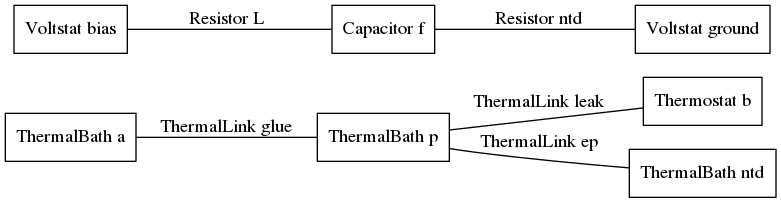
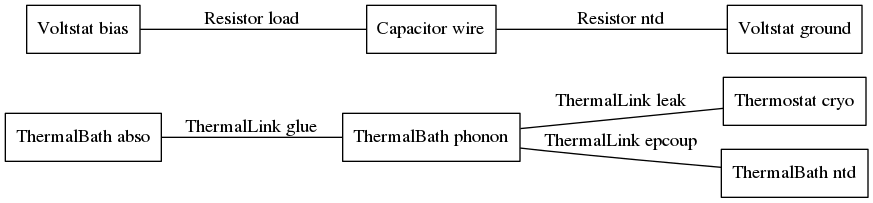
Each elements in now registered as an attribute of System.

diff --git a/ethem/system_scheme.py b/ethem/system_scheme.py
@@ -9,10 +9,9 @@ scheme of the electro-thermal system.
 import pydot
 import Image
 
-from .convenience import build_path
 from .et_scheme import System, Bath, Link
 
-def display_scheme(fp):
+def display_scheme(fp='scheme.png'):
     """ Create and display the symbolic scheme of the System.
 
     Parameters
@@ -47,25 +46,9 @@ def display_scheme(fp):
         edge_l.set_label(lab)
         graph.add_edge(edge_l)
 
-#    node_abs = pydot.Node('Dummy Absorber\nGe')
-#    node_waf = pydot.Node('Dummy Waffer')
-#    node_nbsi = pydot.Node('Dummy NbSi\nElectron Bath')
-#    node_cryo = pydot.Node('Dummy Cryostat')
-#
-#    graph.add_node(node_abs)
-#    graph.add_node(node_waf)
-#    graph.add_node(node_nbsi)
-#    graph.add_node(node_cryo)
-
-#    edgy = pydot.Edge(node_abs, node_waf)
-#    edgy.set_label('hello there, this is a dummy scheme.')
-#
-#    graph.add_edge(edgy)
-#    graph.add_edge(pydot.Edge(node_waf, node_cryo))
-#    graph.add_edge(pydot.Edge(node_waf, node_nbsi))
-
-    graph.write_png(fp)
-    image = Image.open(fp)
-    image.show()
-
-#%%
+    try:
+        graph.write_png(fp)
+        image = Image.open(fp)
+        image.show()
+    except IOError as err:
+        print 'Cannot display scheme. IOError: {}'.format(err)

diff --git a/ethem/test_ethem/config_ethem.py b/ethem/test_ethem/config_ethem.py
@@ -23,11 +23,11 @@ t, f = eth.System.t, eth.System.f
 
 ### Defining the thermal system
 ### cryostat
-cryo = eth.Thermostat('b')
+cryo = eth.Thermostat('cryo')
 ### absorber thermal bath
-abso = eth.ThermalBath('a')
+abso = eth.ThermalBath('abso')
 ### ntd phonon bath
-phntd = eth.ThermalBath('p')
+phntd = eth.ThermalBath('phonon')
 ### ntd thermal bath
 thntd = eth.ThermalBath('ntd')
 ### thermal leak
@@ -35,7 +35,7 @@ leak = eth.ThermalLink(phntd, cryo, 'leak')
 ### glue between absorber and ntd
 glue = eth.ThermalLink(abso, phntd, 'glue')
 ### ep coupling
-epcoup = eth.ThermalLink(phntd, thntd, 'ep')
+epcoup = eth.ThermalLink(phntd, thntd, 'epcoup')
 
 ### Chassis ground
 ground = eth.Voltstat('ground')
@@ -43,14 +43,13 @@ ground.voltage = 0
 ### Bias voltage
 bias = eth.Voltstat('bias')
 ### Wire capacitance
-capa = eth.Capacitor('f')
+capa = eth.Capacitor('wire')
 ### Load resistance
-load = eth.Resistor(bias, capa, 'L')
+load = eth.Resistor(bias, capa, 'load')
 ### NTD resistance
 elntd = eth.Resistor(capa, ground, 'ntd')
 
 savepath = 'results/system_scheme.png'
-eth.build_path(savepath)
 eth.display_scheme(savepath)
 
 #==============================================================================

diff --git a/ethem/convenience.py b/ethem/convenience.py
@@ -9,7 +9,7 @@ Could serve as a buffer script for functions in very early development
 """
 
 import os
-
+import json
 
 def build_path(p):
     """ Create the path if not existing.
@@ -31,3 +31,19 @@ def build_path(p):
             raise
 
 
+def json_import(fp):
+    """ Import a dictionnary from a json file.
+
+    Parameters
+    ==========
+    fp : str
+        Json filepath.
+
+    Return
+    ======
+    data : dict
+    """
+    with open(fp, 'r') as read_file:
+        data = json.load(read_file)
+
+    return data

diff --git a/ethem/et_scheme.py b/ethem/et_scheme.py
@@ -207,7 +207,12 @@ class Element(object):
 
     def __init__(self, label):
         self.label = label
+
+        # listing all the elements
         System.elements_list.append(self)
+
+        # creating an attribute to the system for each element
+        setattr(System, '{}_{}'.format(type(self).__name__, self.label), self)
 
 
 class Bath(Element):
